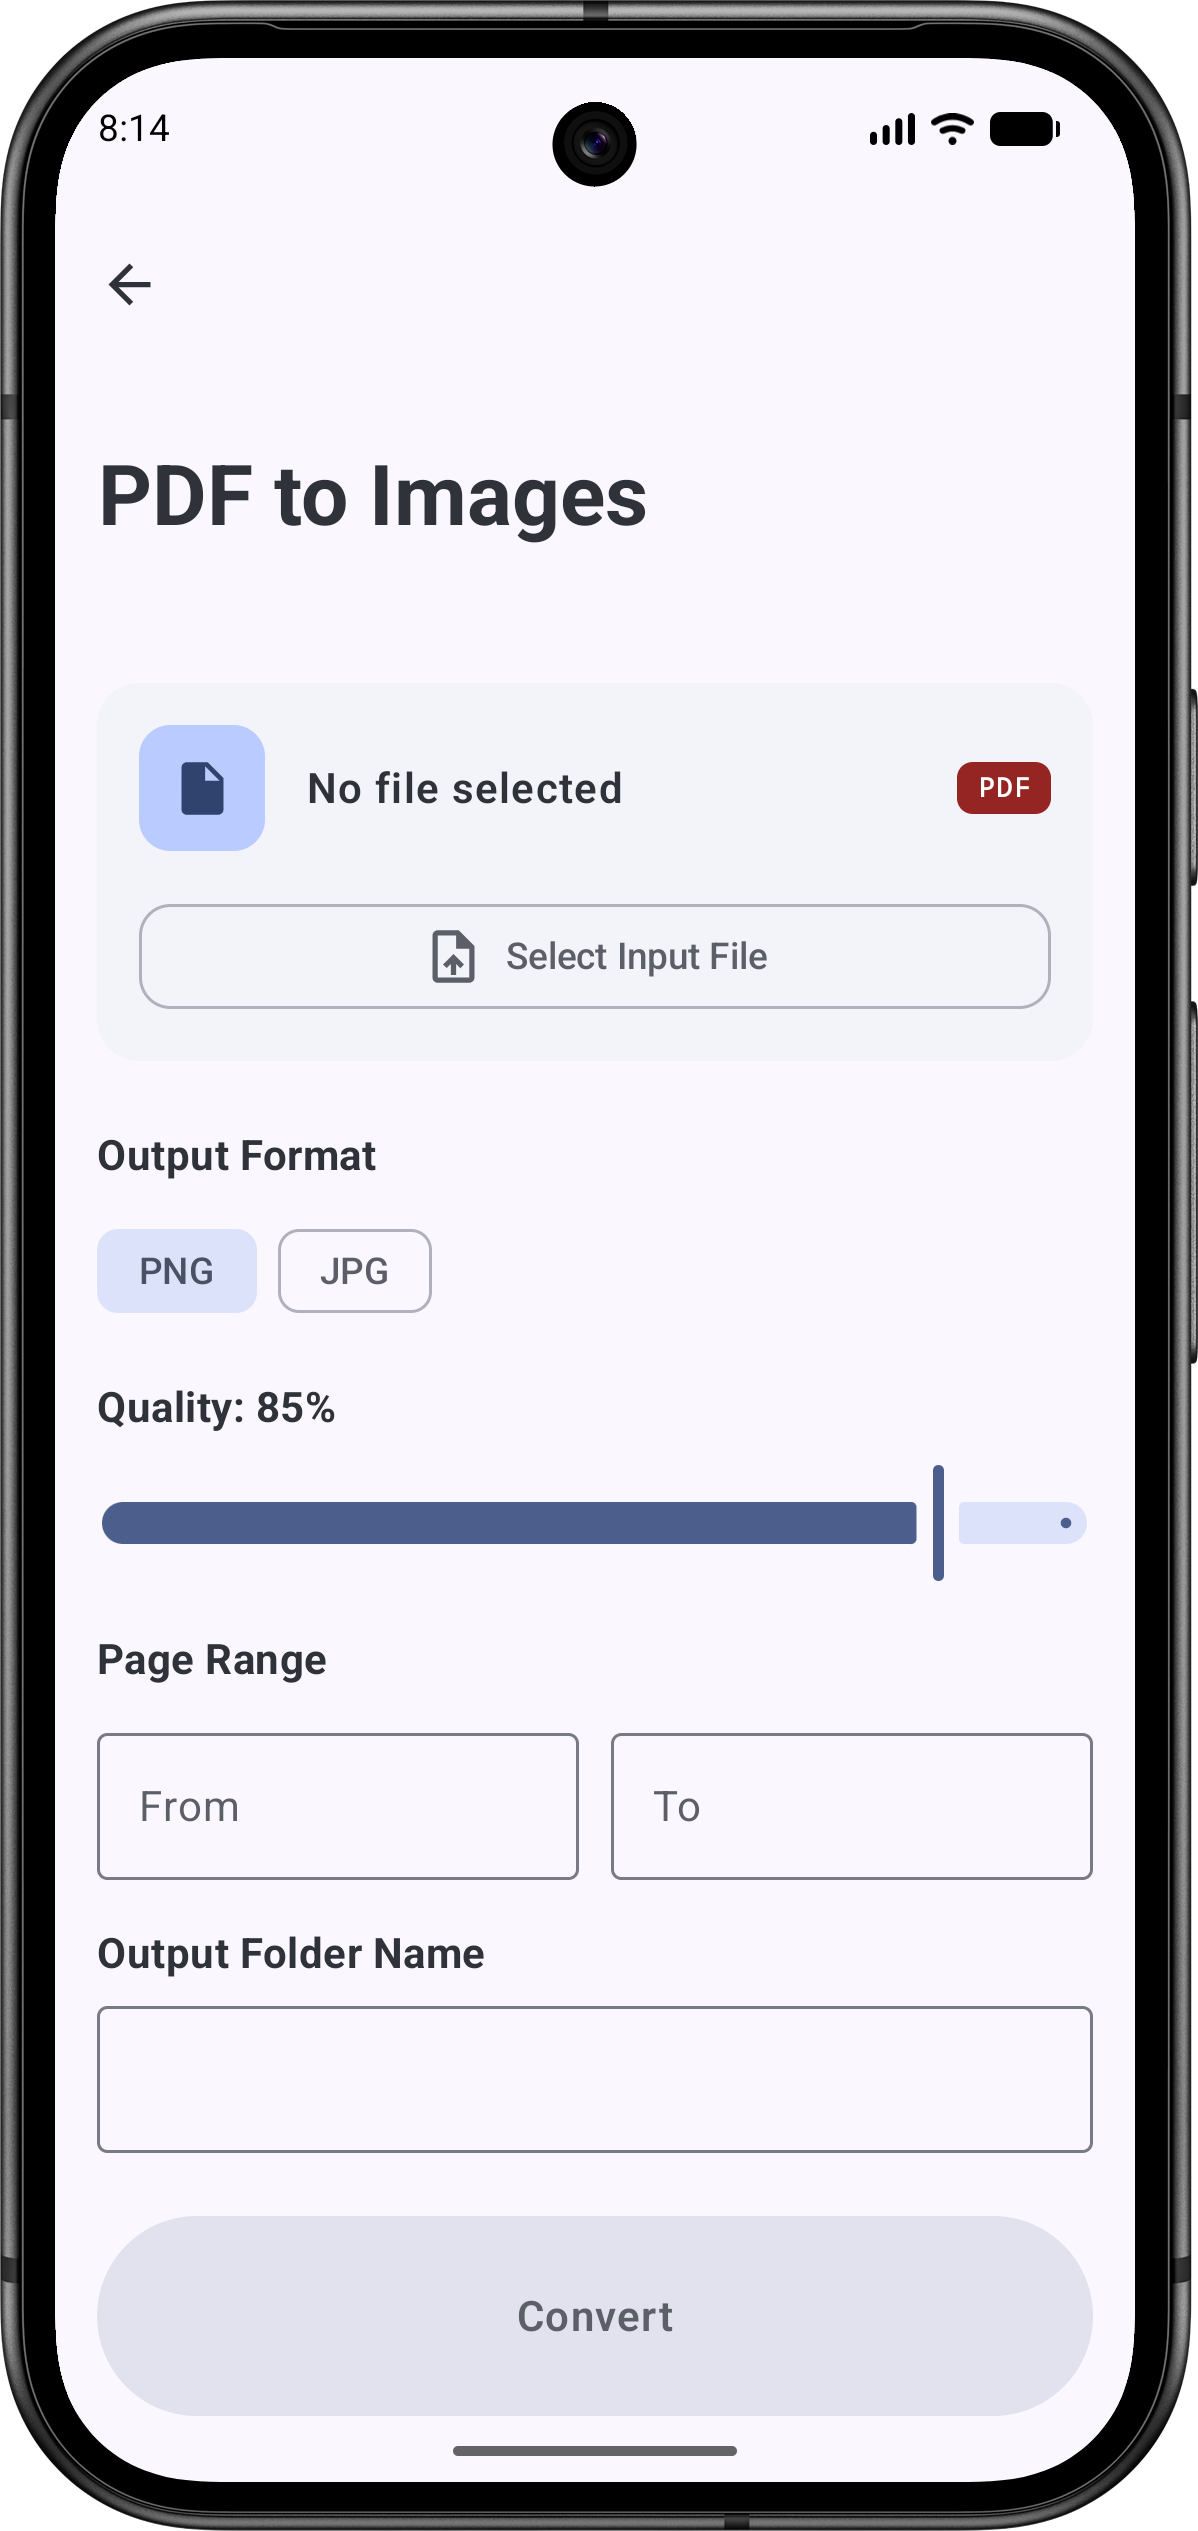
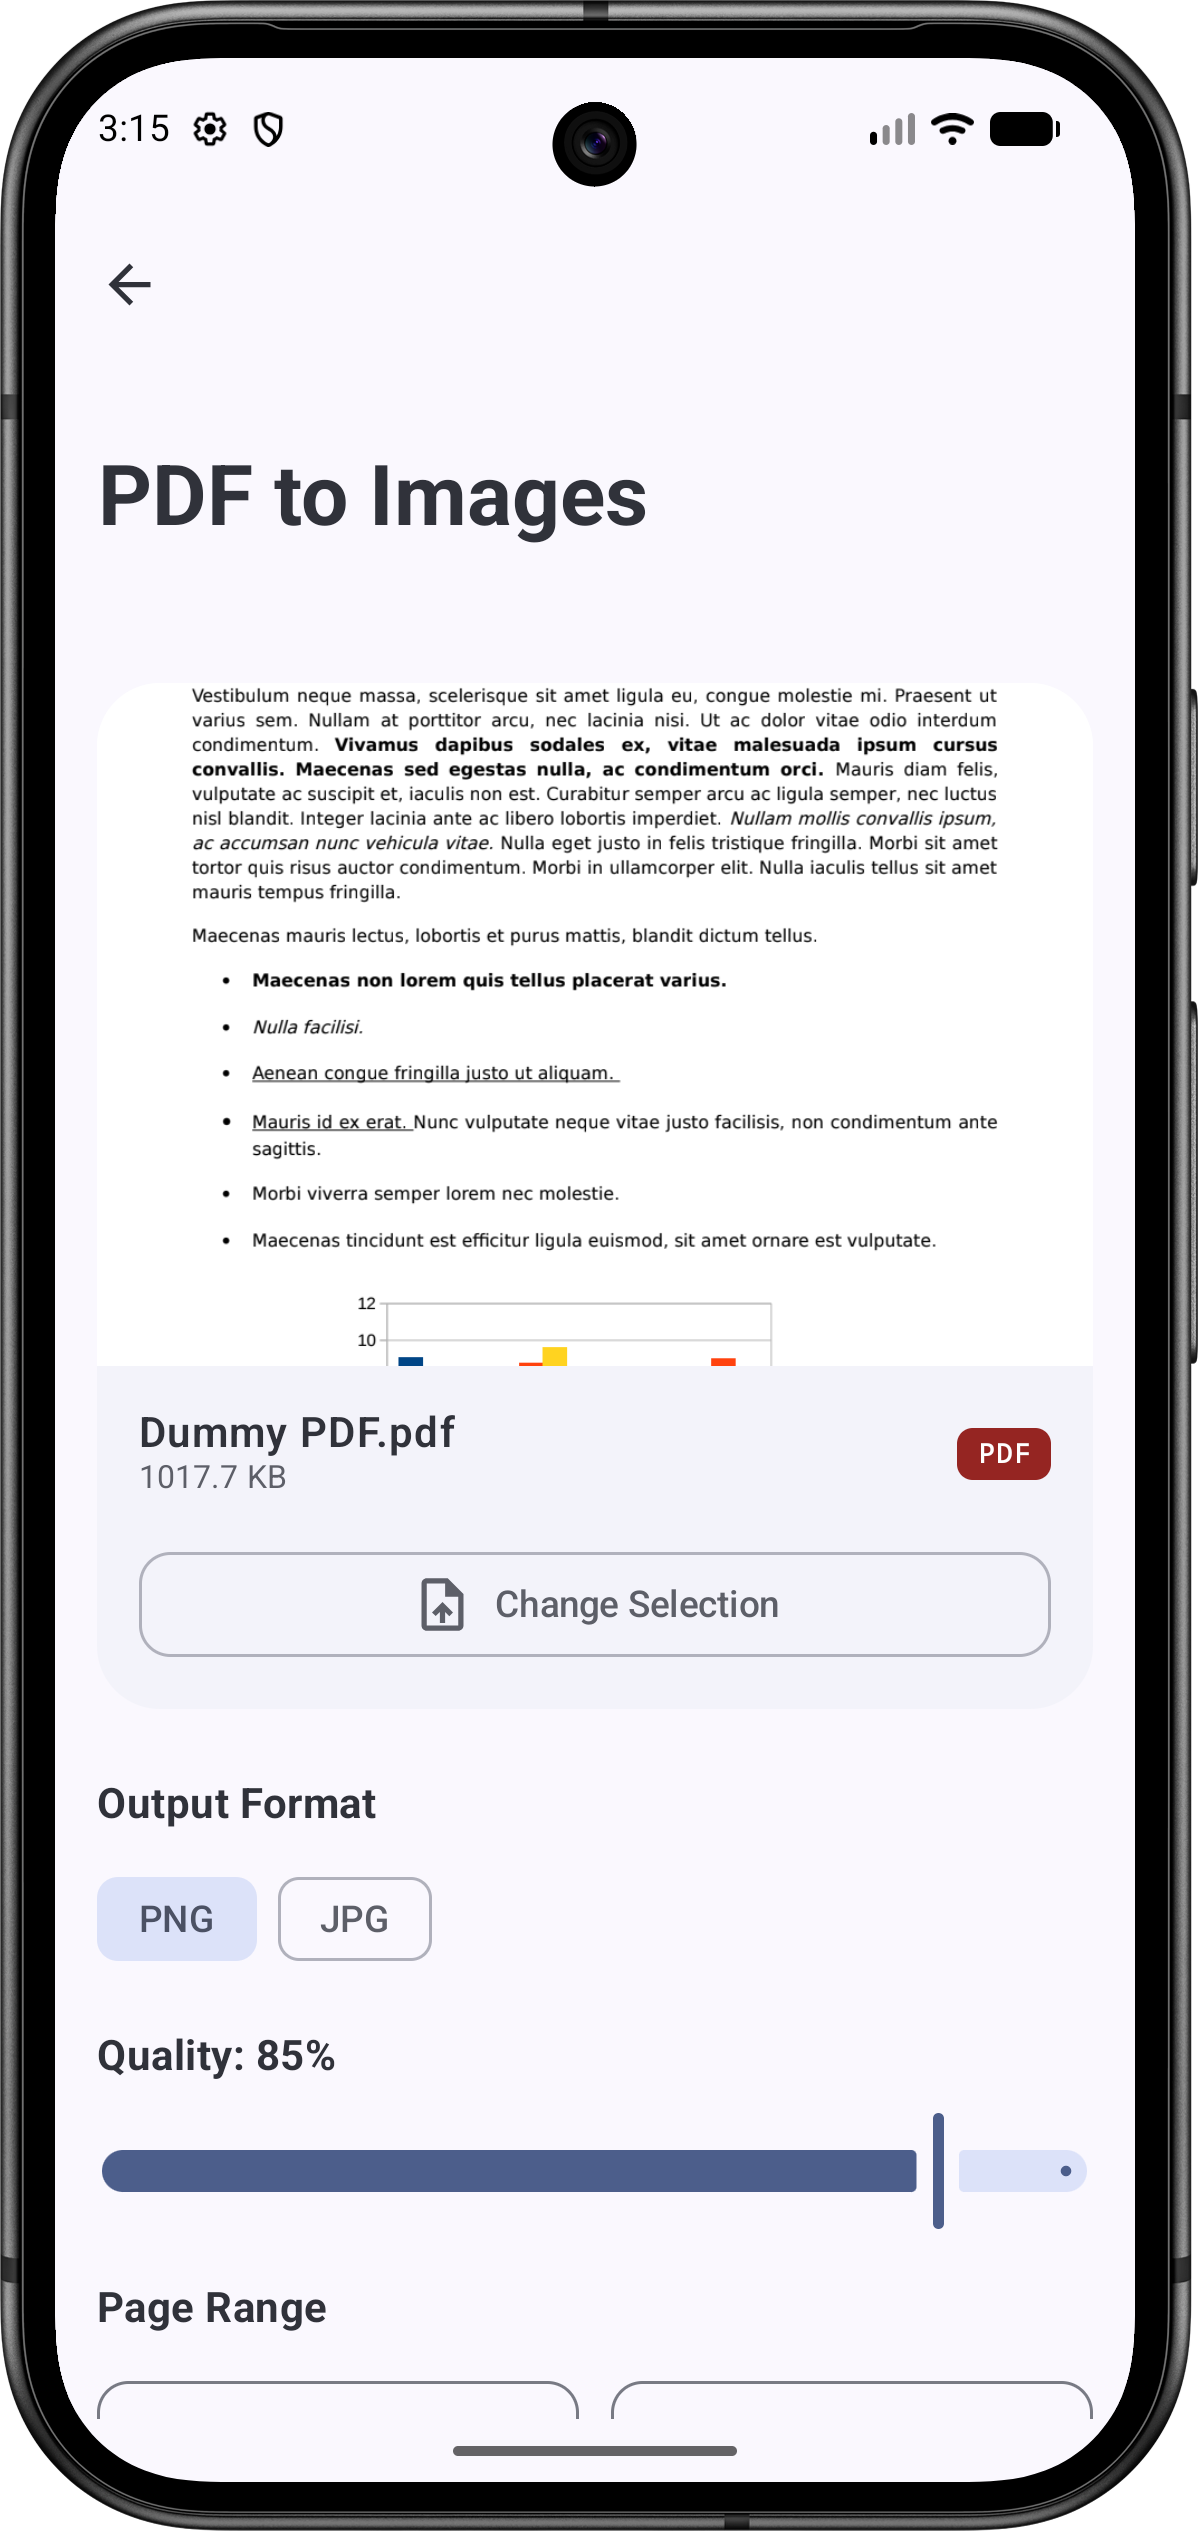
chore: update README and bump version to 1.2.0
- Bumped versionCode to 4 and versionName to 1.2.0 in build.gradle.kts.
- Updated README.md What's New section to include the Image & Document Workstation overhaul and the Interactive PDF Workbench.
- Updated the conversion setup screenshot to reflect the latest Workstation UI.

diff --git a/RELEASE_INFO.md b/RELEASE_INFO.md
@@ -1,16 +1,8 @@
-# MorphDrop v1.1.0 - Advanced Image Tools Update
+## What's New in MorphDrop v1.2.0
 
-## 🚀 Enhancements
-- **Workstation UI Overhaul:** Complete redesign of the Image and Document conversion tools featuring native pill-shaped input fields and a premium "Workstation" aesthetic.
-- **Interactive Cropping:** Introduced a fully interactive image cropping dialog that launches automatically upon image selection.
-- **Custom Color Picker:** Added a precision HSV Color Wheel for custom padding color selection when compressing and resizing images.
-- **Live PDF Previews:** Native integration with `PdfRenderer` now provides real-time, high-quality thumbnails of the first page of PDF documents in the conversion configuration screen.
-- **Dynamic Bounding Previews:** Live previews now dynamically mask cropped regions and respect precise EXIF and manual rotations.
-
-## 🐛 Bug Fixes
-- Fixed an `InvalidImageException` crash occurring in `ImageConverterUseCase` caused by memory-safe bounds decoding.
-- Fixed a bug where auto-cropping would endlessly loop when canceling the crop dialog.
-- Fixed the HSV rendering layout logic in the custom color picker where the visual gradient was rendered inverted.
-
-## ⚙ Maintenance
-- Improved background worker error handling to gracefully record failures in the conversion history database instead of crashing silently.
+🚀 **The Ultimate PDF Overhaul**
+- **Interactive PDF Workbench:** A high-end visual grid interface for merging, splitting, and organizing PDFs. Say goodbye to legacy text-based inputs!
+- **Advanced Merge:** Seamlessly interleave pages from multiple documents with our new Master Visual Workbench and dynamic color badges.
+- **Enhanced Compression:** Our new strict byte-size guardian prevents file size inflation, and we've fixed alpha transparency issues for perfect visual accuracy.
+- **Iron-Clad Security:** Major improvements to PDF password protection, ensuring absolute enforcement of printing, copying, and editing restrictions.
+- **Workstation UI:** A complete overhaul of the PDF tools to match our premium, dynamic Material 3 design language.

diff --git a/README.md b/README.md
@@ -73,6 +73,9 @@
 
 ### What's New
 
+> - **Interactive PDF Workbench** — A high-end visual grid interface for merging, splitting, and organizing PDFs.
+> - **Image & Document Workstation** — Complete redesign featuring interactive cropping, a precision color picker, and native pill-shaped inputs.
+> - **Advanced PDF Engine** — Improved compression algorithms and iron-clad password protection options.
 > - **Material You Aesthetic** — Beautiful modern UI with dynamic theming.
 > - **Cooperative Background Tasks** — Safe cancellations without orphaned or corrupted files.
 > - **Search FAB System** — Quick and intuitive search functionality integrated tightly into the navigation.
